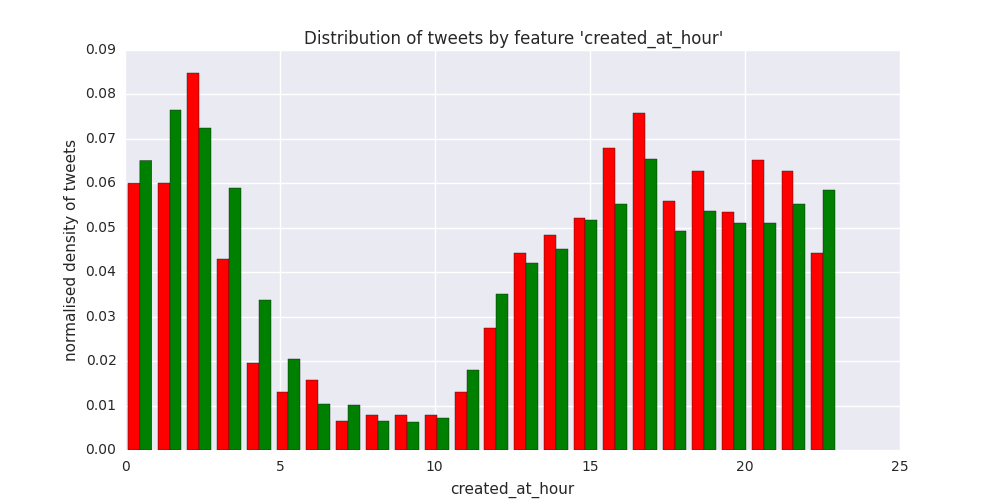
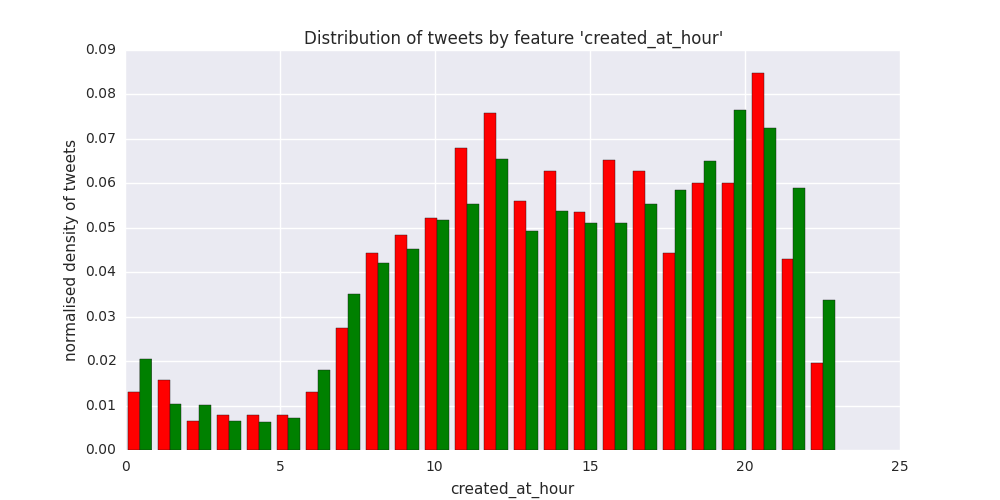
[ML] change times from UTC to EST format (-5h) and update relevant functions appropriately

Changed region(s): [[0.124, 0.15, 0.837, 0.84]]

diff --git a/plots.py b/plots.py
@@ -16,9 +16,9 @@ sns.set(color_codes=True)
 INPUT_FILE_NAME      = 'dataset_new_combined_20170804.tsv'
 PLOTS_PATH           = 'plots/'
 STATISTICS_FILE_NAME = 'statistics.txt'
-DO_DISCRETE_PLOTS    = False
+DO_DISCRETE_PLOTS    = True
 DO_CONTINUOUS_PLOTS  = True
-DO_STATISTICS        = False
+DO_STATISTICS        = True
 
 # read csv file
 data = pd.read_csv(INPUT_FILE_NAME, sep='\t')
@@ -38,19 +38,28 @@ def number_of_swears(text):
     for swearword in swearwords:
         number += len(re.findall(swearword, text.lower()))
     return number
-def extract_weekday_number(text):
+def get_weekday_number_from_text(text):
     weekdays = {'Mon': 1, 'Tue': 2, 'Wed': 3, 'Thu': 4, 'Fri': 5, 'Sat': 6, 'Sun': 7}
-    weekday = re.search('^([A-Z][a-z][a-z])\s', text).group(1)
-    return weekdays[weekday]
+    weekday_text = re.search('^([A-Z][a-z][a-z])\s', text).group(1)
+    weekday_number = weekdays[weekday_text]
+    utc_hour = int(re.search('\s([0-9][0-9]):', text).group(1))
+    if utc_hour - 5 < 0: # although in the UK the day number is 'weekday_number', in the US the day number might be one less due to timezone shift
+        weekday_number -= 1
+    if weekday_number == 0:
+        weekday_number = 7
+    return weekday_number
 def get_time_delta(datetime_created_string):
     datetime_today = datetime.datetime.now()
     datetime_created = datetime.datetime.strptime(datetime_created_string, "%a %b %d %H:%M:%S +0000 %Y")
     datetime_delta = datetime_today - datetime_created
     return datetime_delta.days
-#def get_user_screen_name_num_caps_digits_except_first_cap(text):
-#    return len(re.findall('[A-Z0-9]', text)) - len(re.findall('^[A-Z]', text))
-#def get_user_screen_name_has_caps_digits_except_first_cap(text):
-#    return (len(re.findall('[A-Z0-9]', text)) - len(re.findall('^[A-Z]', text))) >= 1
+def get_est_hour_from_text(text):
+    utc_hour = int(re.search('\s([0-9][0-9]):', text).group(1))
+    est_hour = (utc_hour + 24 - 5) % 24
+    return est_hour
+def get_hour_of_week_from_text(text):
+    hour_of_week = (get_weekday_number_from_text(text) - 1) * 24 + get_est_hour_from_text(text)
+    return hour_of_week
 
 # 'user_screen_name' related features
 data['user_screen_name_has_caps'] = data['user_screen_name'].apply(lambda text: int(len(re.findall('[A-Z]', text)) >= 1))
@@ -67,8 +76,6 @@ data['user_screen_name_num_caps_digits'] = data['user_screen_name'].apply(lambda
 data['user_screen_name_num_caps_underscores'] = data['user_screen_name'].apply(lambda text: len(re.findall('[A-Z_]', text)))
 data['user_screen_name_num_digits_underscores'] = data['user_screen_name'].apply(lambda text: len(re.findall('[0-9_]', text)) )
 data['user_screen_name_num_caps_digits_underscores'] = data['user_screen_name'].apply(lambda text: len(re.findall('[A-Z0-9_]', text)))
-#data['user_screen_name_has_caps_digits_except_first_cap'] = data['user_screen_name'].apply(get_user_screen_name_has_caps_digits_except_first_cap)
-#data['user_screen_name_num_caps_digits_except_first_cap'] = data['user_screen_name'].apply(get_user_screen_name_num_caps_digits_except_first_cap)
 data['user_screen_name_has_weird_chars'] = data['user_screen_name'].apply(lambda text: int(len(re.findall('[^A-Za-z .\']', text)) >= 1))
 data['user_screen_name_num_weird_chars'] = data['user_screen_name'].apply(lambda text: len(re.findall('[^A-Za-z .\']', text)))
 
@@ -84,11 +91,12 @@ data['text_num_caps_digits_exclam'] = data['text'].apply(lambda text: len(re.fin
 data['text_num_swears'] = data['text'].apply(number_of_swears)
 
 # 'created_at' related features
-data['created_at_hour'] = data['created_at'].apply(lambda text: int(re.search('\s([0-9][0-9]):', text).group(1)))
-data['created_at_hour_23_to_5'] = data['created_at_hour'].isin([23, 0, 1, 2, 3, 4, 5]).astype(int)
-data['created_at_hour_13_to_22'] = data['created_at_hour'].isin(range(13, 23)).astype(int)
-data['created_at_weekday'] = data['created_at'].apply(extract_weekday_number)
+data['created_at_hour'] = data['created_at'].apply(get_est_hour_from_text)
+data['created_at_hour_18_to_00'] = data['created_at_hour'].isin([18, 19, 20, 21, 22, 23, 0]).astype(int)
+data['created_at_hour_08_to_17'] = data['created_at_hour'].isin(range(8, 17)).astype(int)
+data['created_at_weekday'] = data['created_at'].apply(get_weekday_number_from_text)
 data['created_at_weekday_sun_mon_tue'] = data['created_at_weekday'].isin([7, 1, 2]).astype(int)
+data['created_at_hour_of_week'] = data['created_at'].apply(get_hour_of_week_from_text)
 
 # 'user_description' related features
 data['user_description_num_caps'] = data['user_description'].apply(lambda text: len(re.findall('[A-Z]', text)))
@@ -169,13 +177,15 @@ if DO_CONTINUOUS_PLOTS:
 
 # plot discrete features
 if DO_DISCRETE_PLOTS:
-    discrete_features = ['user_verified', 'geo_coordinates', 'num_hashtags', 'num_mentions',
-                         'num_urls', 'num_media',
-                         'created_at_hour', 'created_at_hour_23_to_5', 'created_at_hour_13_to_22', 'created_at_weekday',
-                         'created_at_weekday_sun_mon_tue', 'user_default_profile_image',
-                         'user_name_has_digits_underscores', 'user_profile_use_background_image', 'user_default_profile',
-                         'user_name_has_weird_chars', 'user_name_num_weird_chars', 'user_name_has_nonprintable_chars',
-                         'user_name_num_nonprintable_chars', 'user_name_num_caps']
+    discrete_features = [
+        'user_verified', 'geo_coordinates', 'num_hashtags', 'num_mentions',
+        'num_urls', 'num_media',
+        'created_at_hour', 'created_at_hour_08_to_17', 'created_at_hour_18_to_00', 'created_at_weekday',
+        'created_at_weekday_sun_mon_tue', 'created_at_hour_of_week', 'user_default_profile_image',
+        'user_name_has_digits_underscores', 'user_profile_use_background_image', 'user_default_profile',
+        'user_name_has_weird_chars', 'user_name_num_weird_chars', 'user_name_has_nonprintable_chars',
+        'user_name_num_nonprintable_chars', 'user_name_num_caps'
+    ]
     weights_fake = np.ones(data_fake.shape[0])/len(data_fake)
     weights_other = np.ones(data_other.shape[0])/len(data_other)
     weights = [weights_fake, weights_other]
@@ -200,7 +210,8 @@ if DO_STATISTICS:
         'text_num_exclam', 'text_num_caps_exclam', 'text_num_caps_digits', 'text_num_caps_digits_exclam',
         'text_num_swears',
         'num_urls_is_nonzero', 'num_hashtags_is_nonzero', 'num_mentions_is_more_than_2',
-        'created_at_hour', 'created_at_hour_23_to_5', 'created_at_hour_13_to_22', 'created_at_weekday', 'created_at_weekday_sun_mon_tue',
+        'created_at_hour', 'created_at_hour_08_to_17', 'created_at_hour_18_to_00', 'created_at_weekday', 'created_at_weekday_sun_mon_tue',
+        'created_at_hour_of_week',
         'user_description_num_caps', 'user_description_num_digits', 'user_description_num_nonstandard',
         'user_description_num_nonstandard_extended', 'user_description_num_exclam',
         'user_description_num_caps_with_num_nonstandard', 'user_description_num_non_a_to_z',
